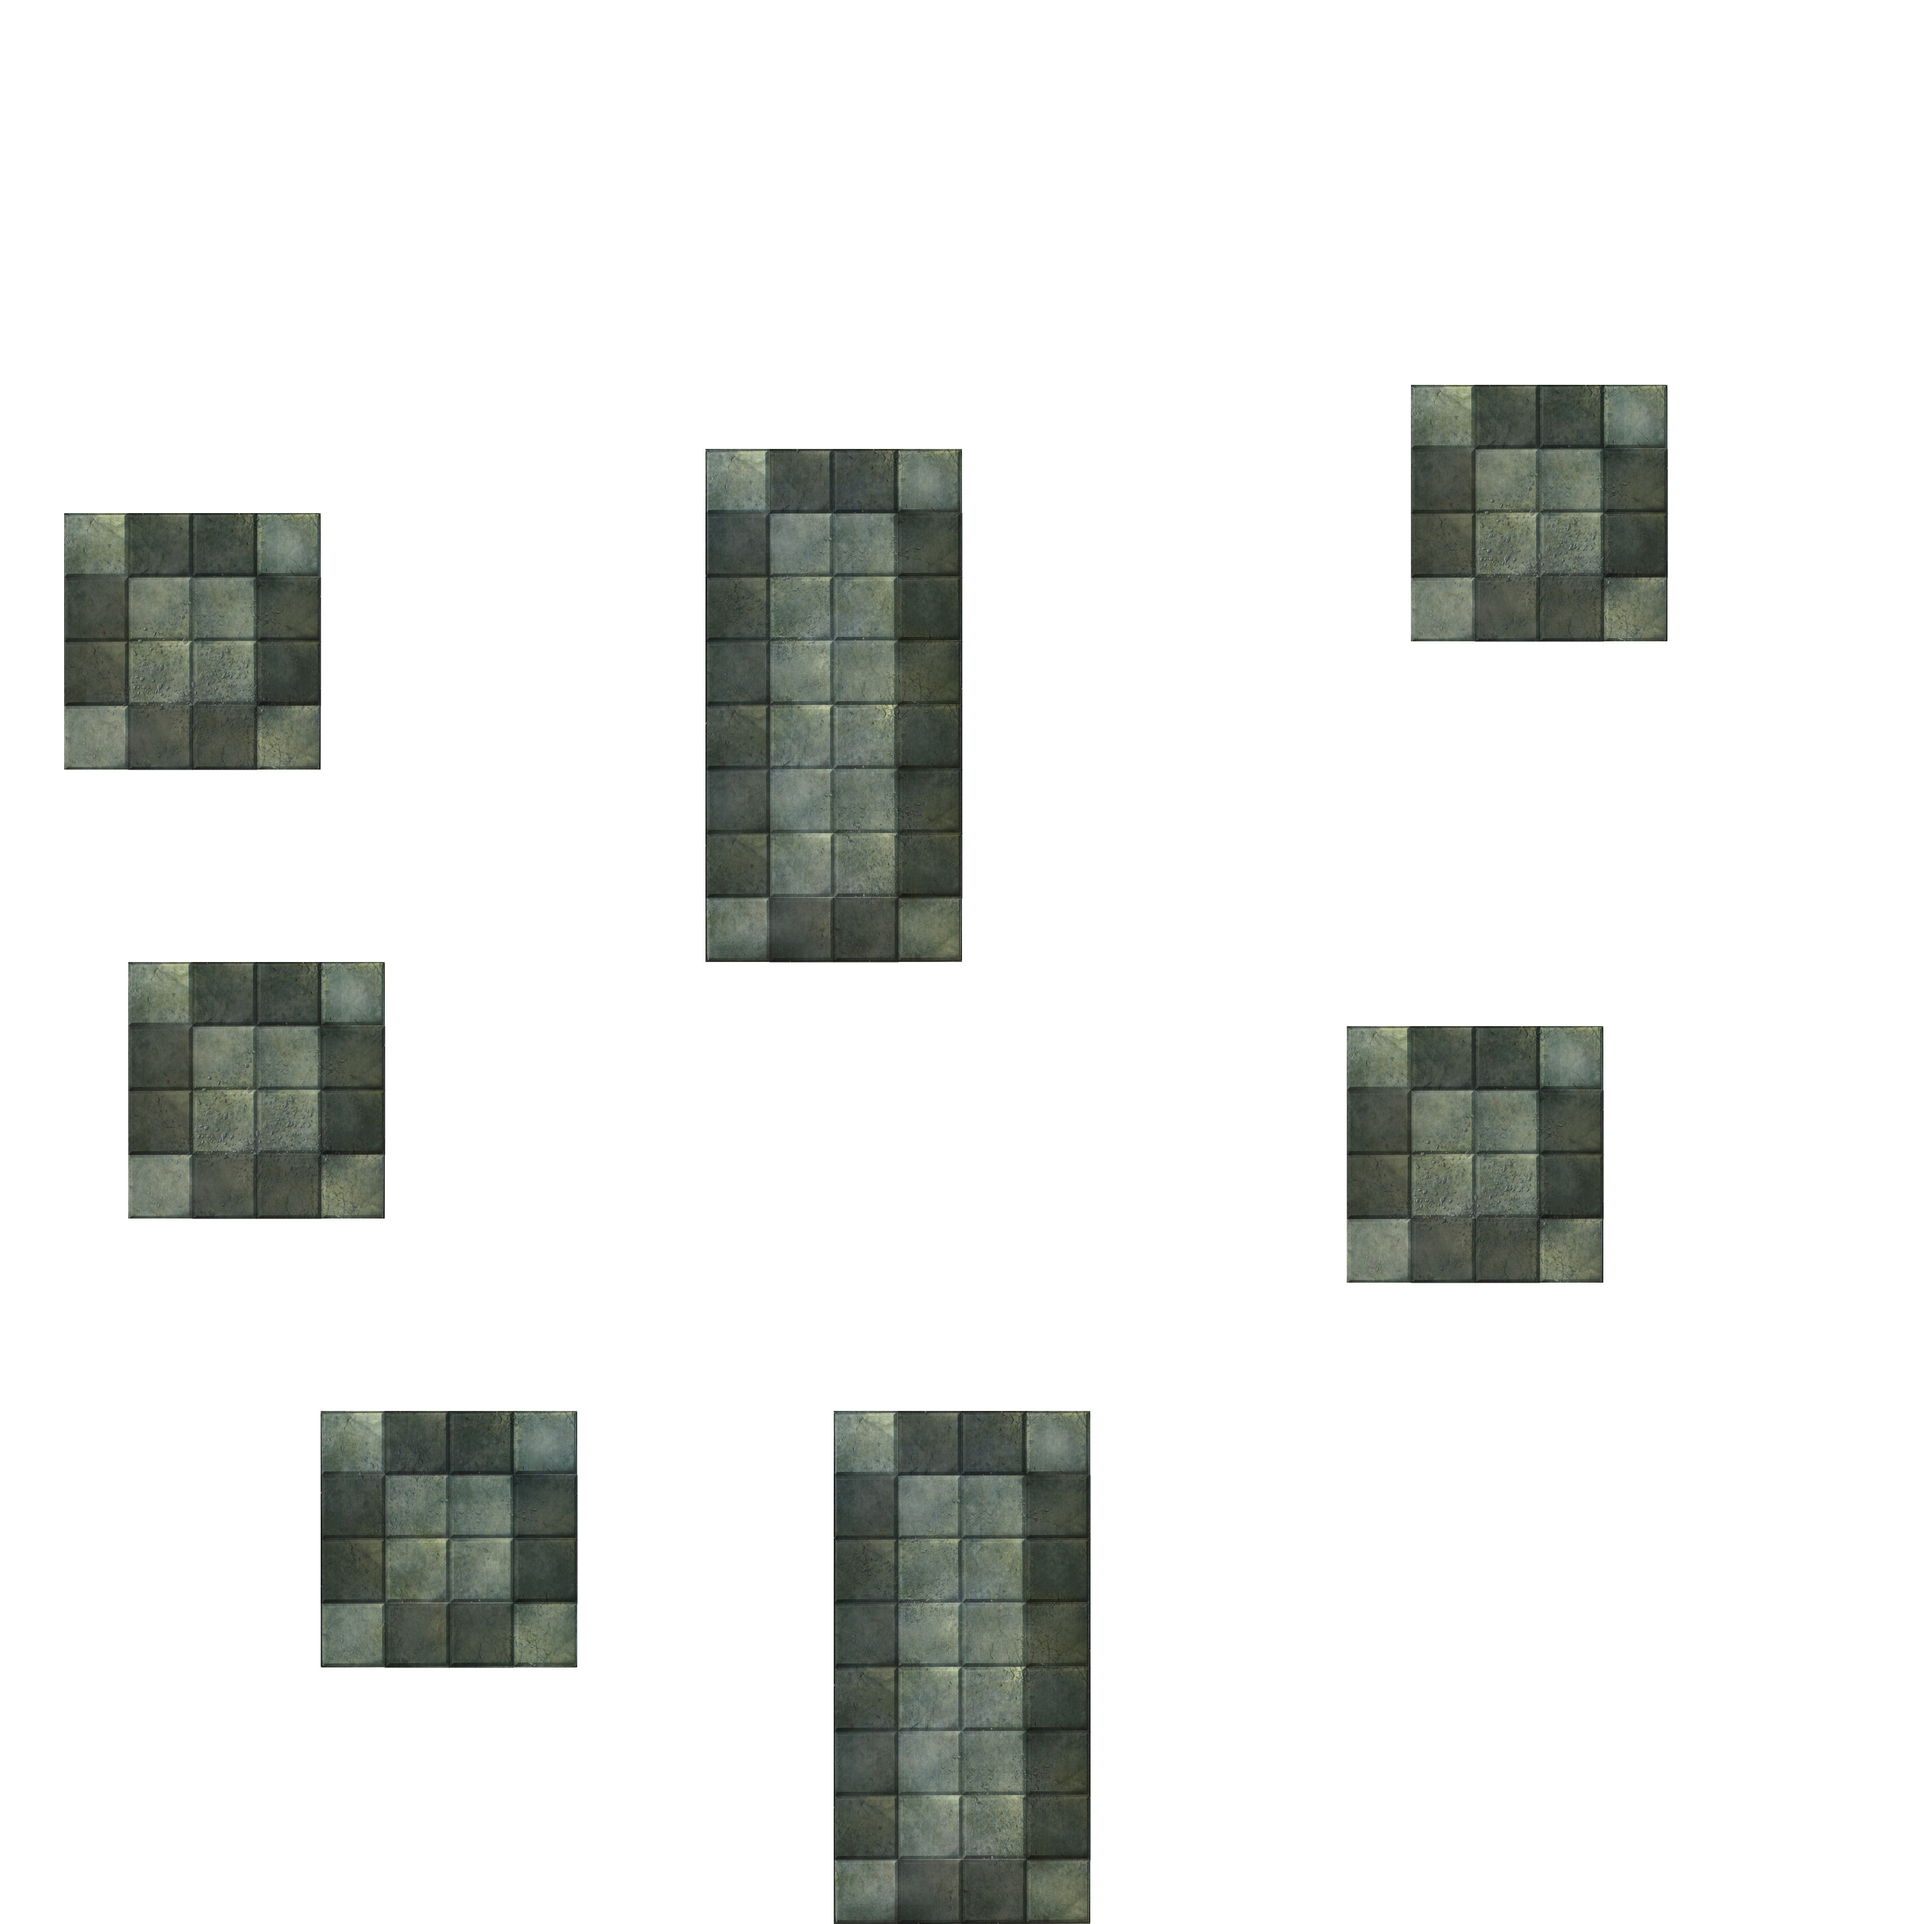
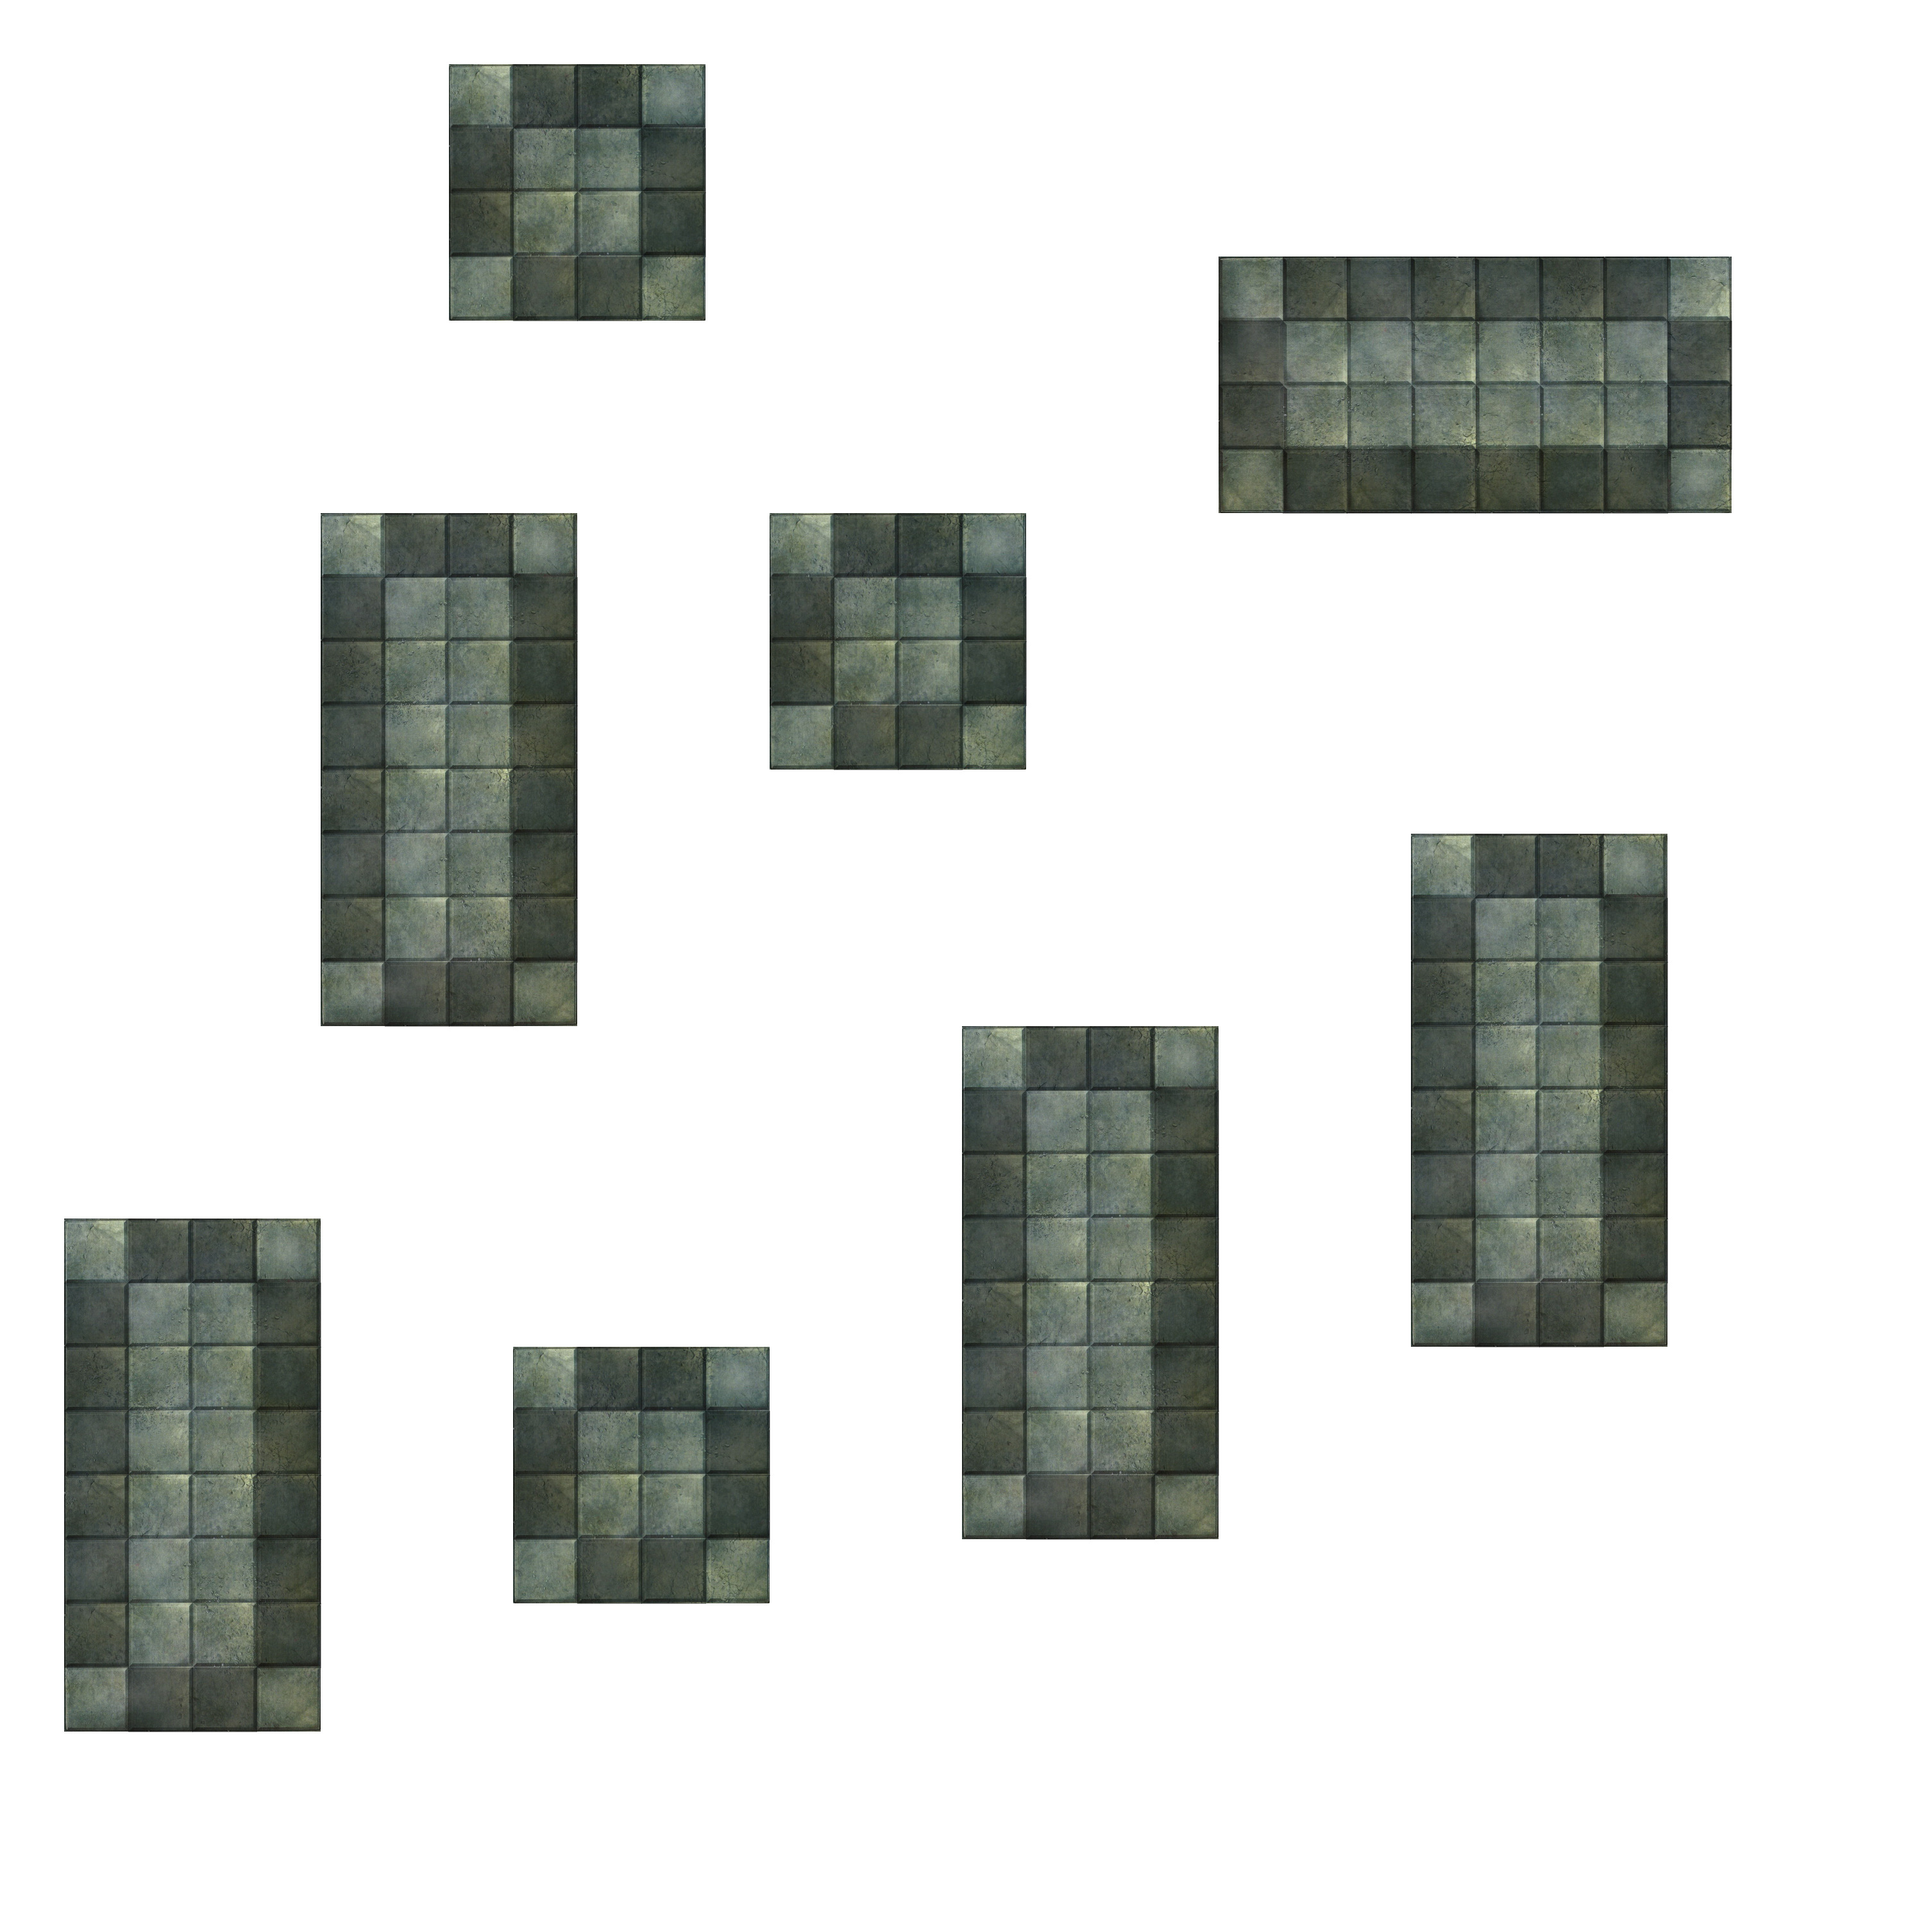
New big tile.

diff --git a/gen.rb b/gen.rb
@@ -21,7 +21,7 @@ left = dungeon_width / 2 - room.w / 2+  rand( - room.w .. room.w )
 
 placed_rooms << room.place( top, left )
 
-nb_rooms = 6
+nb_rooms = 10
 infinite_loop_protection = 1000
 
 while nb_rooms > 0 and infinite_loop_protection > 0
